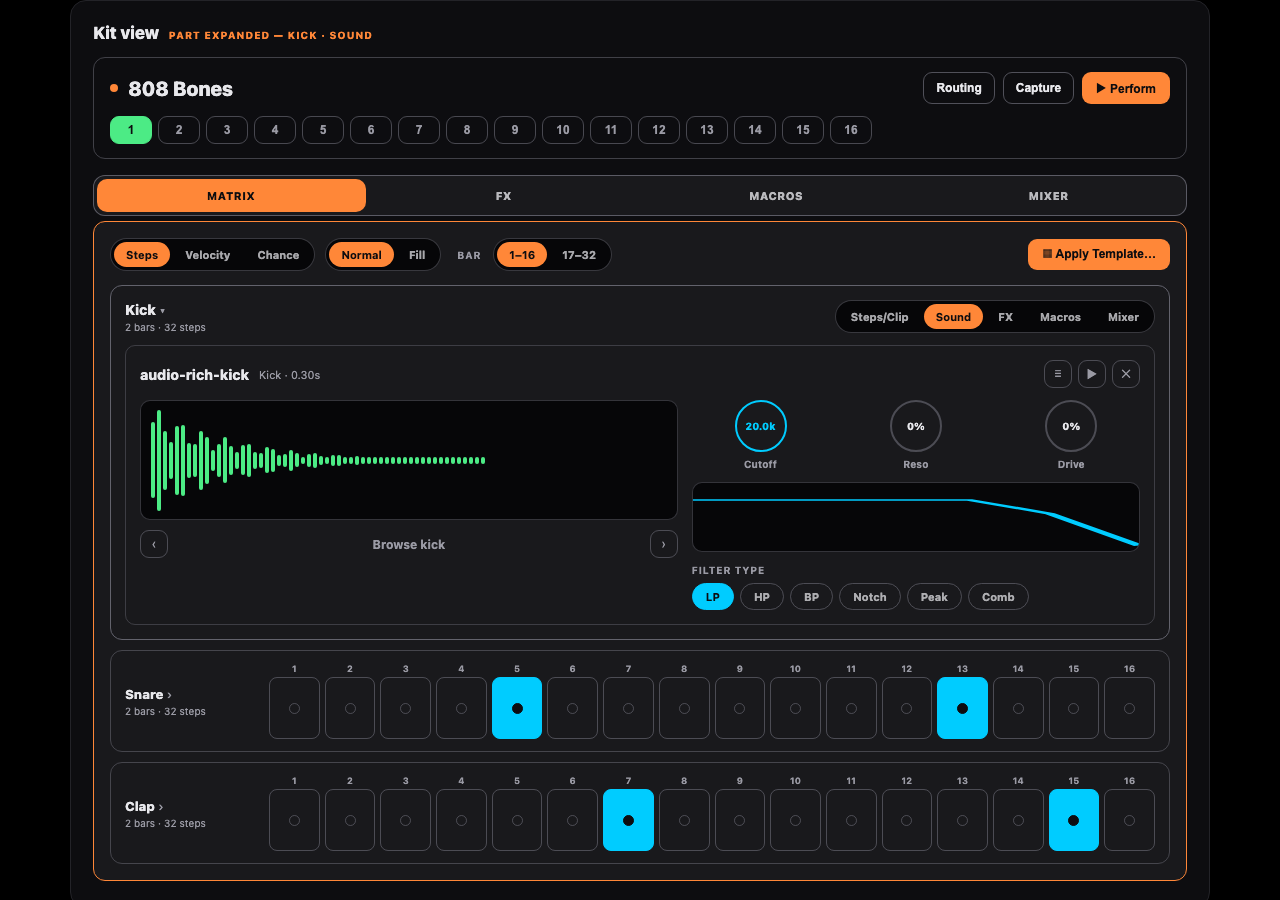
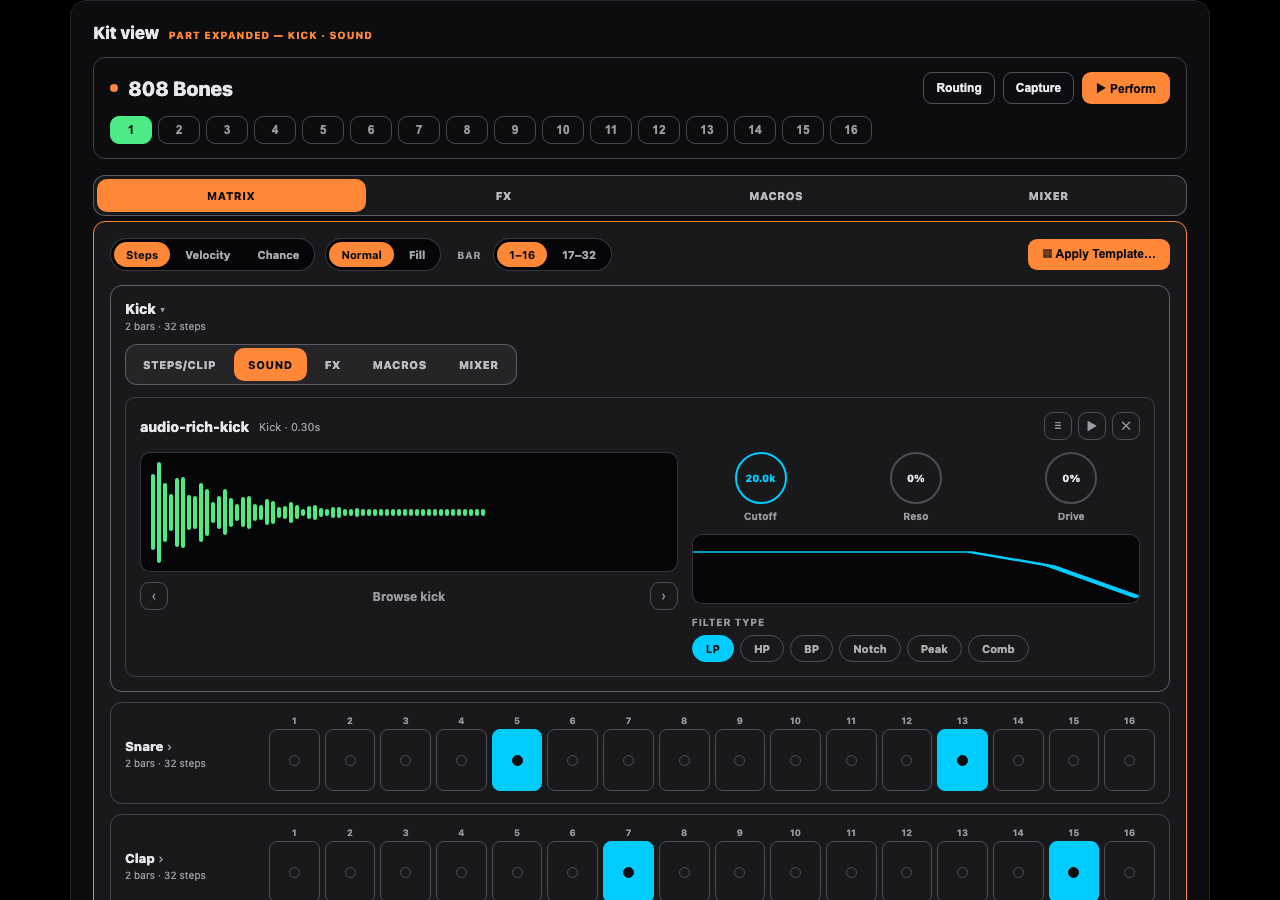
docs(track-view-ia): lock D grammar — section switchers vs value selectors
Owner approved 09 with one amendment, making the rule function-based:
ALL section switchers (kit/track/part level) use the D-pill grammar —
the part mini-switcher is now a left-aligned D-pill row flush to its
sub-card edge, not the inset-track style — while ONLY value/layer
selectors (Steps/Velocity/Chance, Normal/Fill, BAR range, slicer layers)
use the inset-track solid-thumb style. Part pills keep the kit accent
(one chrome accent per surface). Decision doc DECISION section updated
to LOCKED; visual-review copies refreshed.

diff --git a/docs/roadmap/track-view-ia/prototypes/09-kit-and-part-D.html b/docs/roadmap/track-view-ia/prototypes/09-kit-and-part-D.html
@@ -38,11 +38,17 @@
   .pattern-slot { min-width:42px; padding:6px 0; text-align:center; font-size:12px; font-weight:800; border:1px solid rgba(98,98,108,.7); border-radius:9px; background:transparent; color:var(--muted); cursor:pointer; }
   .pattern-slot.on { background:var(--green); border-color:var(--green); color:var(--ground); }
 
-  /* primary switcher — Variant D pills: solid kit-accent thumb, floating
-     OUTSIDE the well with the small gap */
+  /* section switchers — Variant D pills (LOCKED, function-based rule):
+     ALL section switchers (kit-level, track-level, part-level) use this
+     grammar: solid accent thumb in a bordered pill row. Only value/layer
+     selectors use the inset-track style below. */
   .tabstrip.seg { display:flex; gap:4px; padding:3px; background:var(--fill1); border:1.5px solid rgba(98,98,108,.9); border-radius:12px; margin-bottom:5px; }
   .tabstrip.seg .schip { flex:1; border:none; background:transparent; color:rgba(232,232,236,.78); font:inherit; font-size:11px; font-weight:800; letter-spacing:.05em; text-transform:uppercase; padding:10px 8px; border-radius:10px; cursor:pointer; display:flex; align-items:center; justify-content:center; gap:6px; white-space:nowrap; }
   .tabstrip.seg .schip.active { background:var(--kit); color:var(--ground); }
+  /* part-level section switcher: same D-pill grammar, sized to content and
+     flush to the sub-card's left edge */
+  .tabstrip.seg.part { display:inline-flex; margin:0 0 12px; }
+  .tabstrip.seg.part .schip { flex:0 0 auto; padding:10px 14px; }
 
   /* the well — full-strength kit-accent outline, ALL corners 12px,
      containing everything below (layer selector rows AND part rows) */
@@ -50,9 +56,10 @@
   .well-pane[hidden] { display:none; }
   .stub { border:1.5px dashed var(--border); border-radius:10px; padding:26px; text-align:center; color:var(--muted); font-size:12px; letter-spacing:.02em; }
 
-  /* subordinate selectors — solid thumbs INSIDE a visible darker inset
-     track/capsule; containment + smaller scale carries the hierarchy since
-     the shape now matches the primary */
+  /* value/layer selectors — solid thumbs INSIDE a visible darker inset
+     track/capsule. Function-based rule: this style is ONLY for value/layer
+     selection (Steps/Velocity/Chance, Normal/Fill, BAR range), never for
+     section switching. */
   .selrow { display:flex; gap:10px; align-items:center; flex-wrap:wrap; margin-bottom:14px; }
   .track { display:inline-flex; gap:3px; padding:3px; background:var(--inset); border:1px solid rgba(98,98,108,.55); border-radius:999px; }
   .track .chip { border:none; background:transparent; color:rgba(232,232,236,.72); font:inherit; font-size:11px; font-weight:700; padding:6px 12px; border-radius:999px; cursor:pointer; white-space:nowrap; }
@@ -79,8 +86,6 @@
   .part-card { border:1.5px solid var(--border); border-radius:12px; padding:14px; margin-bottom:10px; }
   .part-card .part-hdr { display:flex; align-items:center; gap:12px; margin-bottom:12px; }
   .part-card .part-hdr .part-name { font-size:14px; }
-  /* the part mini-switcher shares the subordinate segmented-track style */
-  .part-card .track { margin-left:auto; }
 
   .sound-editor { border:1px solid rgba(98,98,108,.5); border-radius:10px; padding:14px; }
   .sound-hdr { display:flex; align-items:center; gap:10px; margin-bottom:12px; }
@@ -221,18 +226,19 @@
           <button class="btn-solid apply">▦ Apply Template…</button>
         </div>
 
-        <!-- expanded Kick: neutral-outlined sub-card, mini-switcher in the
-             subordinate segmented-track style -->
+        <!-- expanded Kick: neutral-outlined sub-card; the part section
+             switcher uses the SAME D-pill grammar as the kit-level pills
+             (function-based rule), left-aligned to the sub-card edge -->
         <div class="part-card">
           <div class="part-hdr">
             <div><div class="part-name">Kick <span class="chev">▾</span></div><div class="part-meta">2 bars · 32 steps</div></div>
-            <div class="track">
-              <button class="chip">Steps/Clip</button>
-              <button class="chip on">Sound</button>
-              <button class="chip">FX</button>
-              <button class="chip">Macros</button>
-              <button class="chip">Mixer</button>
-            </div>
+          </div>
+          <div class="tabstrip seg part">
+            <button class="schip">Steps/Clip</button>
+            <button class="schip active">Sound</button>
+            <button class="schip">FX</button>
+            <button class="schip">Macros</button>
+            <button class="schip">Mixer</button>
           </div>
           <div class="sound-editor">
             <div class="sound-hdr">

diff --git a/docs/roadmap/track-view-ia/prototypes/README.md b/docs/roadmap/track-view-ia/prototypes/README.md
@@ -94,30 +94,27 @@ now cover the three connection forms he asked to compare:
   jump a given surface to an off-path stub pane, and cross-link to each other
   for direct A/B comparison in a browser.
 
-**Owner picked Variant D.** Proof on the drum-kit surfaces:
-- `09-kit-and-part-D.html` — Variant D grammar + the nesting rules on the
-  kit view, two stacked sections: collapsed matrix and expanded part.
-  Primary switcher (MATRIX/FX/MACROS/MIXER) as D-pills with a solid
-  kit-accent (orange) thumb floating outside the well; the well is a
-  complete full-strength kit-accent outline (12px all corners) containing
-  the layer selector rows AND the part rows. Subordinate selectors
-  (Steps/Velocity/Chance, Normal/Fill, BAR range) are solid thumbs inside a
-  darker inset capsule track — containment + smaller scale carries the
-  hierarchy since the shape now matches the primary. Apply Template stays a
-  standalone solid action button. The expanded Kick row is a
-  NEUTRAL-outlined sub-card (border grey, never a second accent outline
-  fighting the kit's); its mini-switcher (Steps/Clip·Sound·FX·Macros·Mixer)
-  reuses the subordinate segmented-track style.
-  - Part-row accent judgment from the render: the cyan/green content
-    accents (green kick waveform, cyan Cutoff ring + filter curve + solid
-    LP chip) read fine inside the neutral sub-card — they sit on inset
-    panels one step darker, so they register as content state, not chrome,
-    and don't compete with the kit orange which stays confined to
-    thumbs/well outline. One watch-item: the part mini-switcher's solid
-    thumb is also kit-orange, same as the primary pills; scale + the inset
-    track keep it clearly subordinate in the mock, but if it proves
-    ambiguous in the built app, giving the mini-switcher thumb the part's
-    own accent is the escape hatch.
+**Owner picked Variant D; kit/part proof approved — grammar LOCKED
+(function-based rule, owner-approved 2026-07-02):**
+- `09-kit-and-part-D.html` — Variant D grammar on the kit view, two stacked
+  sections: collapsed matrix and expanded part. ALL section switchers use
+  the D-pill grammar: the kit-level MATRIX/FX/MACROS/MIXER pills (solid
+  kit-orange thumb) floating outside the well, AND the part-level
+  Steps/Clip·Sound·FX·Macros·Mixer switcher inside the expanded sub-card —
+  left-aligned flush to the sub-card edge, same shape/size grammar as the
+  kit pills. ONLY value/layer selectors (Steps/Velocity/Chance, Normal/Fill,
+  BAR range) use the inset-track solid-thumb style — solid thumbs inside a
+  darker inset capsule. The well is a complete full-strength kit-accent
+  outline (12px all corners) containing the layer selector rows AND the
+  part rows; Apply Template stays a standalone solid action button; the
+  expanded Kick row is a NEUTRAL-outlined sub-card (border grey, never a
+  second accent outline fighting the kit's).
+  - Part pill accent choice: kit orange, not a per-part colour — one chrome
+    accent per surface; the render confirms the cyan/green content accents
+    (green kick waveform, cyan Cutoff ring + filter curve + solid LP chip)
+    sit on inset panels one step darker and read as content state, with no
+    section-switcher ambiguity now that pill shape separates switchers from
+    the inset-track value selectors.
   - States: `kit-matrix`, `part-expanded` (scrollIntoView per section);
     `setPrototypeState("kit:fx")` / `"part:macros"` etc. jump to stub panes.
     Render with the same command shape as the 08 files, output

diff --git a/docs/roadmap/track-view-ia/tab-unification-and-canon-creep.md b/docs/roadmap/track-view-ia/tab-unification-and-canon-creep.md
@@ -92,27 +92,31 @@ scripts; the UX canon got nothing. This is the third grey-text purge.
    `subtitle:` explainer params on tab components. Wired next to the audio
    lints so creep pass #4 never ships.
 
-## DECISION — 2026-07-02: Variant D locked
+## DECISION — 2026-07-02: Variant D grammar LOCKED (owner-approved)
 
 Owner selected **Variant D** (prototype `08-unified-tab-well-D.html`, commit
 `56e278be`): solid-thumb pills as the primary section switcher (selected =
 fully solid accent fill with dark glyph, unselected = outline pill), floating
 with a small gap above a complete well outlined at full-strength surface
-accent, **all four corners rounded** (12 px).
+accent, **all four corners rounded** (12 px). Kit + expanded-part proof
+approved as `09-kit-and-part-D.html` with one amendment, which locks the
+rule as **function-based, not nesting-based**:
 
-Constraint added by the owner: the grammar must work on the KIT view
-(MATRIX/FX/MACROS/MIXER over the matrix + layer selectors + part rows) and
-the EXPANDED DRUM PART row (whose mini-switcher currently uses the same
-solid-thumb look D now claims for the primary). Open nesting problem —
-prototyped next as `09-…`:
-- primary D-pills float OUTSIDE the accent well; subordinate selectors keep
-  solid thumbs but sit INSIDE a visible segmented track/capsule container
-  within the well (containment + scale carries the hierarchy, not shape);
-- the expanded part row is a neutral-outlined sub-card inside the kit well
-  (no second accent outline fighting the kit's), with its mini-segments in
-  the segmented-track style;
-- kit accent stays the group colour; part-level accent usage to be judged in
-  the prototype.
+- **ALL section switchers use the D-pill grammar** — kit-level
+  (MATRIX/FX/MACROS/MIXER), track-level (Source/FX/Macros/Mixer etc.), and
+  part-level (Steps/Clip·Sound·FX·Macros·Mixer). The part switcher is
+  left-aligned flush to its sub-card edge, same shape/size grammar as the
+  kit pills — never the inset-track style ("otherwise they look like the
+  step layer, fill etc").
+- **ONLY value/layer selectors use the inset-track solid-thumb style** —
+  Steps/Velocity/Chance, Normal/Fill, BAR range, the slicer layer row: solid
+  thumbs inside a visible darker inset capsule track within the well.
+- The expanded part row stays a neutral-outlined sub-card inside the kit
+  well (border grey — no second accent outline fighting the kit's); the
+  kit's D-pills, well outline, and part-level pill thumbs all carry the one
+  kit accent (group colour). Part pills keep the kit accent rather than a
+  per-part colour: one chrome accent per surface, leaving cyan/green free as
+  content accents (steps, waveform, filter).
 
 ## Superseded: open choice (both prototyped, D chosen)
 
